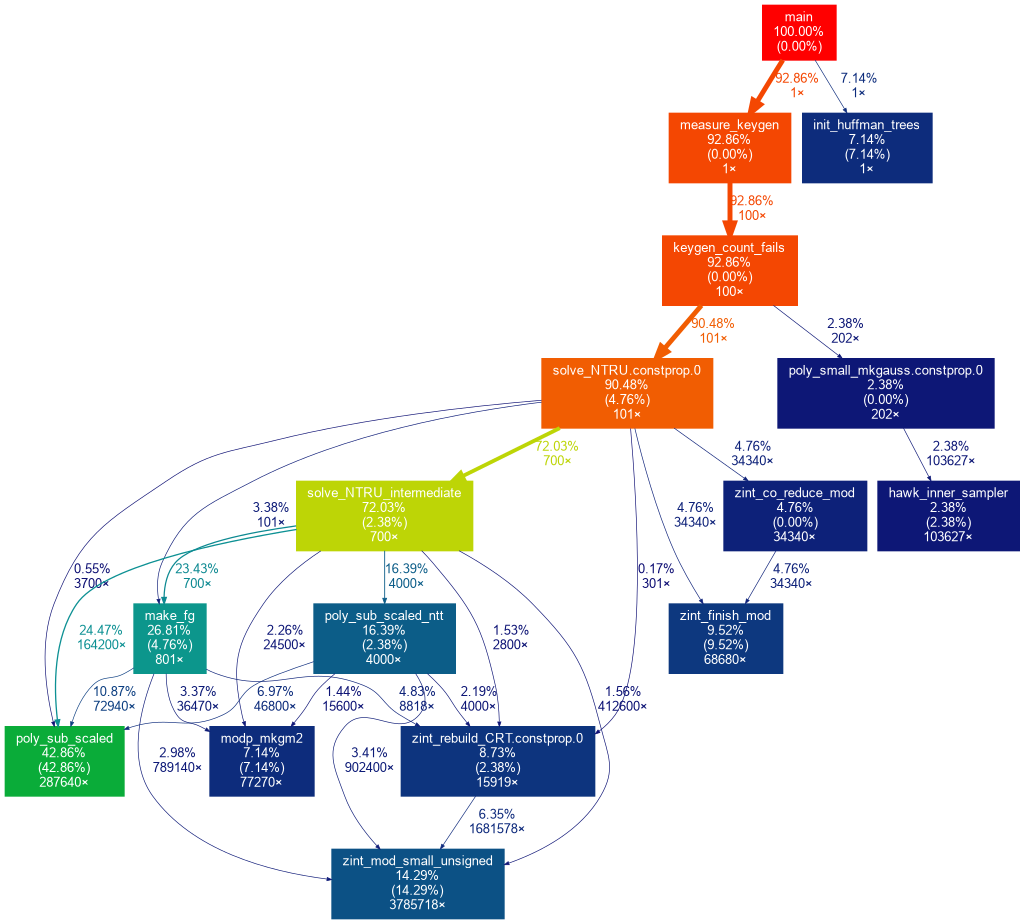
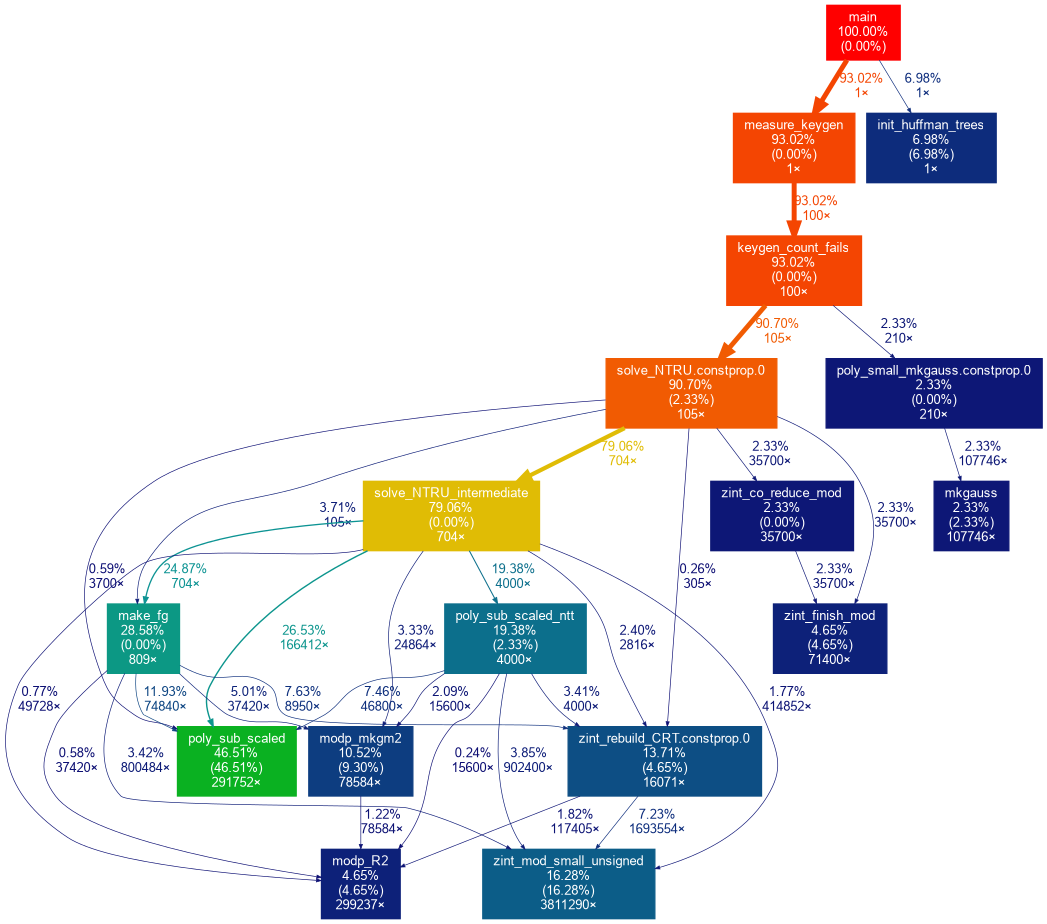
Faster keygen sampling (0.1ms saving from 3.9ms)

diff --git a/keygen.c b/keygen.c
@@ -2322,6 +2322,109 @@ poly_small_to_fp(fpr *x, const int8_t *f, unsigned logn)
 }
 
 // =============================================================================
+
+/*
+ * Table below incarnates a discrete Gaussian distribution:
+ *    D(x) = exp(-(x^2)/(2*sigma^2))
+ * where sigma = 1.425.
+ * Element 0 of the table is P(x = 0).
+ * For k > 0, element k is P(x >= k+1 | x > 0).
+ * Probabilities are scaled up by 2^63.
+ */
+static const uint64_t gauss_1425[14] = {
+	2582170577806070936u,
+	3616484622030002669u,
+	 937850763665829726u,
+	 155804309064628172u,
+	  16270507104385775u,
+	   1056136771359479u,
+	     42327595817352u,
+	      1043181220683u,
+	        15771375580u,
+	          146052920u,
+	             827733u,
+	               2869u,
+	                  6u,
+	                  0u
+};
+
+/*
+ * Generate a random value with a Gaussian distribution centered on 0.
+ * The RNG must be ready for extraction (already flipped).
+ *
+ * Distribution has standard deviation 1.425. The code is now only usable for N
+ * = 512 as other values for N would require different values for sigma.
+ */
+static int
+mkgauss(void *samp_ctx, unsigned logn)
+{
+	unsigned u, g;
+	int val;
+
+	sampler_context *sc = (sampler_context *)samp_ctx;
+
+	g = 1U << (9 - logn);
+	val = 0;
+	for (u = 0; u < g; u ++) {
+		/*
+		 * Each iteration generates one value with the
+		 * Gaussian distribution for N = 512.
+		 *
+		 * We use two random 64-bit values. First value
+		 * decides on whether the generated value is 0, and,
+		 * if not, the sign of the value. Second random 64-bit
+		 * word is used to generate the non-zero value.
+		 *
+		 * For constant-time code we have to read the complete
+		 * table. This has negligible cost, compared with the
+		 * remainder of the keygen process (solving the NTRU
+		 * equation).
+		 */
+		uint64_t r;
+		uint32_t f, v, k, neg;
+
+		/*
+		 * First value:
+		 *  - flag 'neg' is randomly selected to be 0 or 1.
+		 *  - flag 'f' is set to 1 if the generated value is zero,
+		 *    or set to 0 otherwise.
+		 */
+		r = prng_get_u64(&sc->p);
+		neg = (uint32_t)(r >> 63);
+		r &= ~((uint64_t)1 << 63);
+		f = (uint32_t)((r - gauss_1425[0]) >> 63);
+
+		/*
+		 * We produce a new random 63-bit integer r, and go over
+		 * the array, starting at index 1. We store in v the
+		 * index of the first array element which is not greater
+		 * than r, unless the flag f was already 1.
+		 */
+		v = 0;
+		r = prng_get_u64(&sc->p);
+		r &= ~((uint64_t)1 << 63);
+		for (k = 1; k < 14; k ++) {
+			uint32_t t;
+			t = (uint32_t)((r - gauss_1425[k]) >> 63) ^ 1;
+			v |= k & -(t & (f ^ 1));
+			f |= t;
+		}
+
+		/*
+		 * We apply the sign ('neg' flag). If the value is zero,
+		 * the sign has no effect.
+		 */
+		v = (v ^ -neg) + neg;
+
+		/*
+		 * Generated value is added to val.
+		 */
+		val += *(int32_t *)&v;
+	}
+	return val;
+}
+
+// TODO: remove unused isigma_kg throughout whole code
 /*
  * Generate a random polynomial with a Gaussian distribution. This function
  * also makes sure that the resultant of the polynomial with phi is odd.
@@ -2338,7 +2441,7 @@ poly_small_mkgauss(void *samp_ctx, int8_t *f, unsigned logn, fpr isigma_kg, int 
 
 	for (u = n; u -- > 1; ) {
 		do {
-			s = Zf(sampler)(samp_ctx, fpr_zero, isigma_kg);
+			s = mkgauss(samp_ctx, logn);
 			/*
 			 * We need the coefficient to fit within -127..+127;
 			 * realistically, this is always the case except for
@@ -2351,7 +2454,7 @@ poly_small_mkgauss(void *samp_ctx, int8_t *f, unsigned logn, fpr isigma_kg, int 
 	}
 
 	do {
-		s = Zf(sampler)(samp_ctx, fpr_zero, isigma_kg);
+		s = mkgauss(samp_ctx, logn);;
 		/*
 		 * We need the sum of all coefficients to be 1; otherwise,
 		 * the resultant of the polynomial with X^N+1 will be even,
